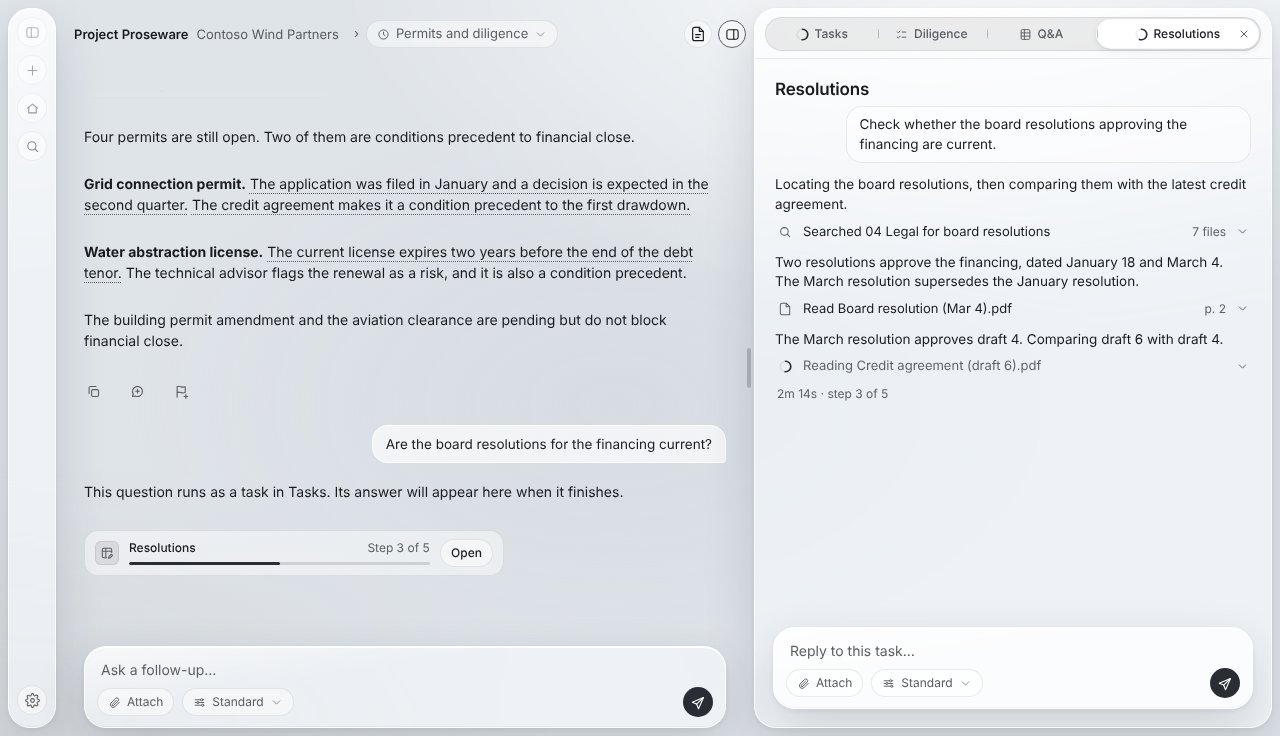
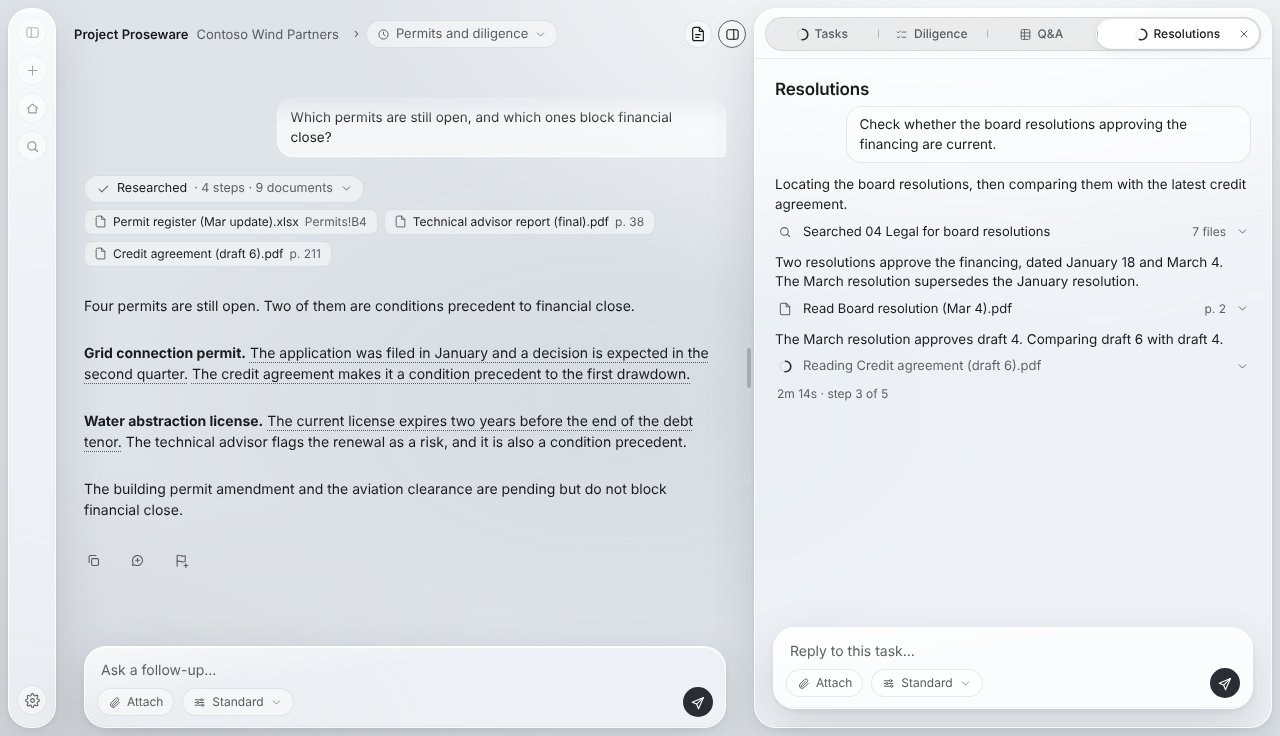
Answer chat questions in place, and list only workflows and questions left running in Tasks (#888)

diff --git a/docs/deal-screen/mock-open-questions.js b/docs/deal-screen/mock-open-questions.js
@@ -113,14 +113,8 @@ const diligenceList = () => diligenceReport(false)
 
 // ---- Tasks: what Needs Input holds ----
 
-// the research task's short name, so it reads whole in the pane's row and in its card
+// a question from another conversation, left running there, that waits on the person
 const WATERFALL_TASK = 'Intercreditor waterfall';
-
-const TURN_WATERFALL_ASK = '<div class="me">Does the intercreditor waterfall pay the O&amp;M reserve before senior debt?</div>';
-
-const TURN_WATERFALL_NEEDS_INPUT = `${TURN_WATERFALL_ASK}
-<div class="ai"><p>This question runs as a task in Tasks. Its answer will appear here when it finishes.</p>
-${taskCard('logedit', WATERFALL_TASK, 'Needs input')}</div>`;
 
 // Needs Input's buttons share one width, so the status texts line up in one column
 const REVIEW_BUTTON = (label) => `<button class="btn sm x-act">${label}</button>`;
@@ -239,8 +233,7 @@ const OPEN_QUESTION_SCREENS = {
   folders: () => OPEN_QUESTION_SCREENS.dealheader(),
   diligence: () => slimRail() + openQuestionStage(inPermitsChat([TURN_PERMITS, TURN_DILIGENCE_DONE])
     + pane(paneTabs([TASKS_TAB, DILIGENCE_TAB], 'diligence'), diligenceList(), paneWidth())),
-  needsinput: () => slimRail() + openQuestionStage(conversation([TURN_GUARANTEE_CAP, TURN_WATERFALL_NEEDS_INPUT],
-    { title: 'Guarantee cap and waterfall', open: true })
+  needsinput: () => slimRail() + openQuestionStage(inPermitsChat([TURN_PERMITS, TURN_DILIGENCE_DONE])
     + pane(paneTabs([TASKS_TAB], 'tasks'), NEEDS_INPUT_TASKS, paneWidth())),
   homepast: () => sidebar() + openQuestionStage(homeScreen()),
   archscale: () => sidebar() + openQuestionStage(homeScreen()),
@@ -255,11 +248,6 @@ function showDealNameTooltip() {
   document.body.appendChild(tooltip);
   Object.assign(tooltip.style, { left: `${anchor.left}px`, top: `${anchor.bottom + 8}px` });
   document.querySelector('.x-dealname').classList.add('hover');
-}
-
-/** In the task screen, the composer is set to Thorough, the answer mode whose questions run as tasks. */
-function setComposerToThorough() {
-  document.querySelector('.x-composer .scopebtn.mode span').textContent = 'Thorough';
 }
 
 /** Home's past conversations open under the history button, as wide as the composer. */
@@ -295,7 +283,6 @@ function placeOpenQuestionScreens() {
   if (['homepast', 'archscale'].includes(screen)) selectHomeInSidebar();
   applyDealHeader();
   if (screen === 'dealheader') showDealNameTooltip();
-  if (screen === 'needsinput') setComposerToThorough();
   if (screen === 'details') document.body.insertAdjacentHTML('beforeend', dealInfoDialog());
   if (screen === 'folders') showFoldersDialog();
   if (screen === 'homepast') openHomePastList();

diff --git a/docs/deal-screen/mock-screens.js b/docs/deal-screen/mock-screens.js
@@ -16,10 +16,10 @@ const runningDiligenceTab = { ...DILIGENCE_TAB, progress: 0.5 };
 const PANE_SCREENS = {
   running: () => [inPermitsChat([TURN_PERMITS, TURN_DILIGENCE_RUNNING]),
     pane(paneTabs([TASKS_TAB, runningDiligenceTab], 'tasks'), TASKS_LIST, paneWidth())],
-  // tasks belong to the deal: after switching conversations, Tasks still lists every task, and each card stays in
-  // the conversation that started it
-  switch: () => [conversation([TURN_BOARD_TASK_RUNNING],
-    { title: CONVERSATION_TITLES.boardResolutions, open: true, top: true }),
+  // in another conversation, Tasks still lists the question left running in the board resolutions conversation,
+  // whose answer arrives there
+  switch: () => [conversation([TURN_GUARANTEE_CAP],
+    { title: CONVERSATION_TITLES.guarantee, open: true, top: true }),
   pane(paneTabs([TASKS_TAB, runningDiligenceTab], 'tasks'), TASKS_LIST, paneWidth())],
   report: () => [inPermitsChat([TURN_PERMITS, TURN_DILIGENCE_DONE]),
     pane(paneTabs([TASKS_TAB, DILIGENCE_TAB], 'diligence'), diligenceReport(false), paneWidth())],
@@ -37,10 +37,10 @@ const PANE_SCREENS = {
     qaPane(qaTableFits() ? qaTable('drafted') : qaOpenedQuestion('drafted'))],
   qaans: () => [inPermitsChat([TURN_PERMITS, TURN_GUARANTEE_CAP, TURN_COUNTERPARTY]),
     qaPane(qaTableFits() ? qaTable('answered') : qaOpenedQuestion('answered'))],
-  taskrun: () => [inPermitsChat([TURN_PERMITS, TURN_BOARD_TASK_RUNNING]),
+  taskrun: () => [inPermitsChat([TURN_PERMITS]),
     pane(paneTabs([{ ...TASKS_TAB, progress: 0.5 }, { ...TASK_TAB, progress: 0.55 }], 'task'), TASK_RUNNING,
       paneWidth())],
-  taskdone: () => [inPermitsChat([TURN_PERMITS, TURN_BOARD_TASK_DONE]),
+  taskdone: () => [inPermitsChat([TURN_PERMITS]),
     pane(paneTabs([TASKS_TAB, TASK_TAB], 'task'), TASK_DONE, paneWidth())],
   // Q&A gets the reading width the source viewer has, and the conversation stays open beside it
   qafocus: () => [inPermitsChat([TURN_PERMITS, TURN_GUARANTEE_CAP, TURN_COUNTERPARTY]),

diff --git a/docs/deal-screen/mock-chat.js b/docs/deal-screen/mock-chat.js
@@ -2,7 +2,7 @@
 
 const CONVERSATION_TITLES = {
   permits: 'Permits and diligence',
-  boardResolutions: 'Board resolutions for the financing',
+  guarantee: 'Guarantee cap',
 };
 
 // marks where an answer's actions go; only the last answer in a conversation shows them
@@ -71,18 +71,6 @@ const TURN_DRAFT_RESPONSE = `<div class="me">Draft a response to Q433 from the d
 const TURN_RECHECK = `<div class="me">Two new files arrived in 04 Legal. Check them against the checklist.</div>
 <div class="ai"><p>Checking the checklist and findings against the 2 new files. The report updates as each item is checked.</p>
 ${taskCard('cklist', 'Diligence', '1,204 of 2,148', 0.56)}</div>`;
-
-const ASK_BOARD_RESOLUTIONS = '<div class="me">Are the board resolutions for the financing current?</div>';
-
-const TURN_BOARD_TASK_RUNNING = `${ASK_BOARD_RESOLUTIONS}
-<div class="ai"><p>This question runs as a task in Tasks. Its answer will appear here when it finishes.</p>
-${taskCard('logedit', BOARD_TASK, 'Step 3 of 5', 0.5,
-    'Reading Credit agreement (draft 6).pdf')}</div>`;
-
-const TURN_BOARD_TASK_DONE = `${ASK_BOARD_RESOLUTIONS}
-<div class="ai"><p>The resolutions are out of date. The board approved draft 4 of the credit agreement, and draft 6`
-  + ' changes the facility size and adds a hedging bank. It is proposed as a finding for review.</p>\n'
-  + `${taskCard('logedit', BOARD_TASK, 'Done · 4 documents')}${ACTIONS_MARK}</div>`;
 
 /** Puts the answer actions in place of the last mark only; earlier marks stay as empty comments. */
 function withLastAnswerActions(html) {

diff --git a/docs/deal-screen-design.md b/docs/deal-screen-design.md
@@ -31,7 +31,7 @@ Running work animates, so a new render can differ from a kept shot in a spinner'
 | 07 | [Answer action tooltip](deal-screen/shots/07-answer-action-tooltip-light-1280x736.jpg) | The answer actions, named in tooltips |
 | 08 | [Past conversations](deal-screen/shots/08-past-conversations-light-1280x736.jpg) | The conversation title's searchable menu of past conversations |
 | 09 | [Diligence running](deal-screen/shots/09-diligence-running-light-1280x736.jpg) | Tasks, with the sidebar folded to its rail |
-| 10 | [Other conversation](deal-screen/shots/10-other-conversation-tasks-kept-light-1280x736.jpg) | Tasks unchanged in another conversation of the deal |
+| 10 | [Other conversation](deal-screen/shots/10-other-conversation-tasks-kept-light-1280x736.jpg) | Another conversation, with a question left running elsewhere listed in Tasks |
 | 11 | [Diligence report](deal-screen/shots/11-diligence-report-light-1280x736.jpg) | The Diligence tab, with the Checklist's own marks |
 | 12 | [Finding](deal-screen/shots/12-finding-light-1280x736.jpg) | An opened finding as a tab after the three fixed tabs |
 | 13 | [Source document](deal-screen/shots/13-source-document-light-1280x736.jpg) | Reading mode's viewer in the pane, with no highlighting |
@@ -41,7 +41,7 @@ Running work animates, so a new render can differ from a kept shot in a spinner'
 | 17 | [Finding updating](deal-screen/shots/17-finding-updating-light-1280x736.jpg) | A finding being updated from new files |
 | 18 | [Q&A item, draft](deal-screen/shots/18-qa-item-draft-light-1280x736.jpg) | An opened question with a draft response |
 | 19 | [Q&A item, answered](deal-screen/shots/19-qa-item-answered-light-1280x736.jpg) | An opened question with its response |
-| 20 | [Task running](deal-screen/shots/20-task-running-light-1280x736.jpg) | A task's steps while it runs, and its card in the chat |
+| 20 | [Task running](deal-screen/shots/20-task-running-light-1280x736.jpg) | A task's steps while it runs, opened from Tasks |
 | 21 | [Task done](deal-screen/shots/21-task-done-light-1280x736.jpg) | A finished task's result, with its reply box |
 | 22 | [Sidebar shown, Q&A](deal-screen/shots/22-sidebar-shown-qa-light-1280x736.jpg) | Q&A beside a pinned sidebar |
 | 23 | [Sidebar shown, finding](deal-screen/shots/23-sidebar-shown-finding-light-1280x736.jpg) | A finding beside a pinned sidebar |
@@ -59,6 +59,6 @@ Screens 27 to 34 propose answers to the points the screens above left open. They
 | 28 | [Deal Info](deal-screen/shots/28-deal-info-light-1280x736.jpg) | The deal's details, its folders, and Delete Deal |
 | 29 | [Folders](deal-screen/shots/29-folders-light-1280x736.jpg) | Overview's Documents list in the Folders dialog |
 | 30 | [Diligence](deal-screen/shots/30-diligence-light-1280x736.jpg) | Every checklist item with its result, one row of filters, and **Run Diligence** |
-| 32 | [Needs Input](deal-screen/shots/32-tasks-needs-input-light-1280x736.jpg) | What Needs Input holds, and a task waiting for a reply |
+| 32 | [Needs Input](deal-screen/shots/32-tasks-needs-input-light-1280x736.jpg) | What Needs Input holds: workflows, and a question from another conversation |
 | 33 | [Home's past conversations](deal-screen/shots/33-home-past-conversations-light-1280x736.jpg) | Home's history button, with a conversation that has a new result |
 | 34 | [Archived at scale](deal-screen/shots/34-archived-at-scale-light-1280x736.jpg) | The end of a 40-deal list, with all 12 archived deals and changed ones first |
